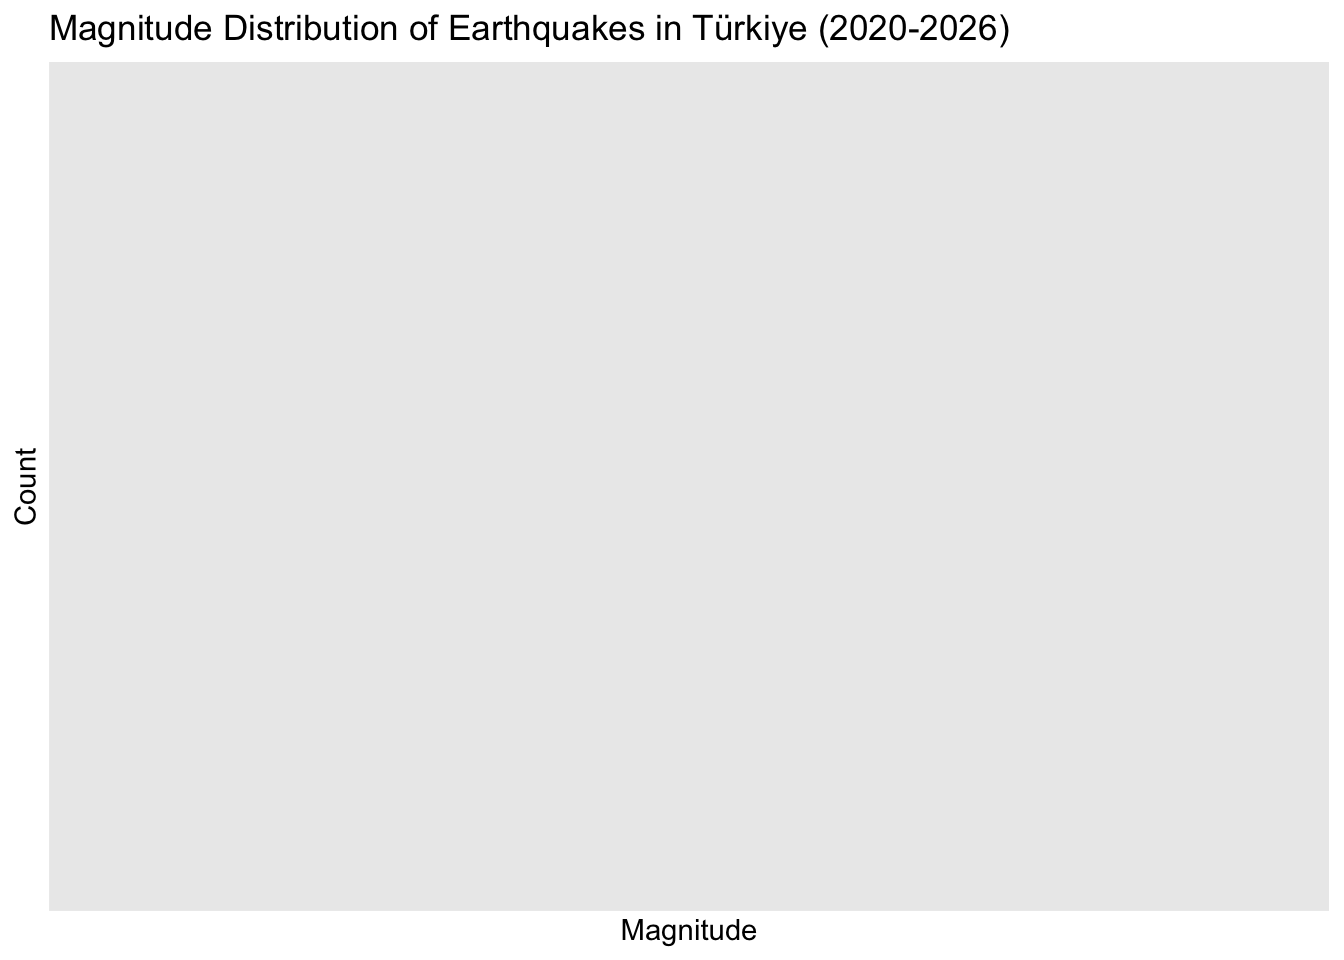
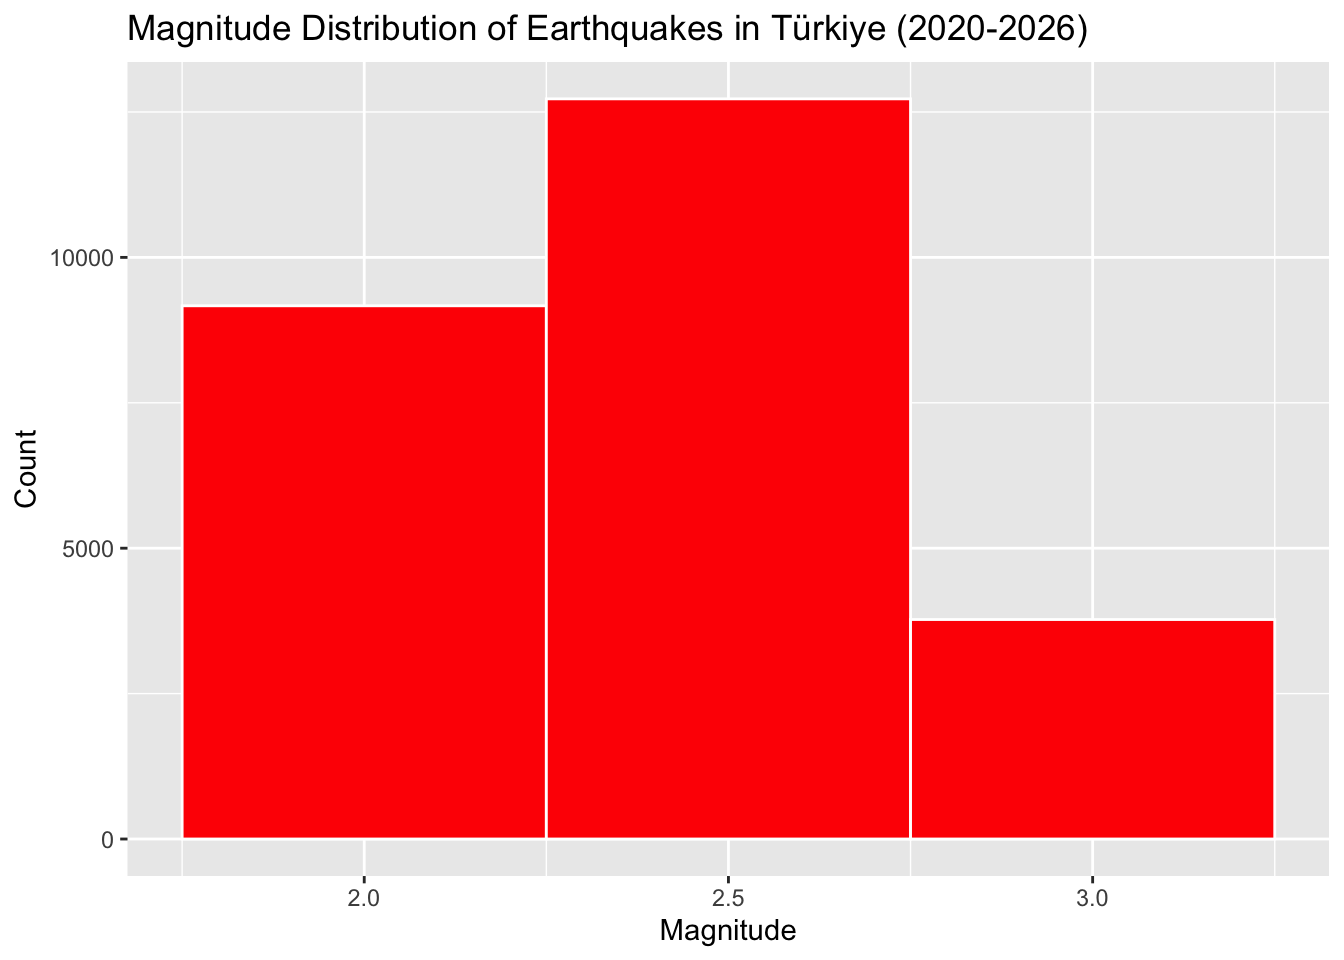
debug

diff --git a/docs/index.html b/docs/index.html
@@ -266,31 +266,48 @@ Attaching package: 'dplyr'</code></pre>
 
     intersect, setdiff, setequal, union</code></pre>
 </div>
-<div class="code-copy-outer-scaffold"><div class="sourceCode cell-code" id="cb5"><pre class="sourceCode r code-with-copy"><code class="sourceCode r"><span id="cb5-1"><a href="#cb5-1" aria-hidden="true" tabindex="-1"></a>deprem_data <span class="ot">&lt;-</span> <span class="fu">read_excel</span>(<span class="st">"~/Desktop/R/data.xlsx"</span>)</span>
-<span id="cb5-2"><a href="#cb5-2" aria-hidden="true" tabindex="-1"></a></span>
-<span id="cb5-3"><a href="#cb5-3" aria-hidden="true" tabindex="-1"></a><span class="co"># Date parse</span></span>
-<span id="cb5-4"><a href="#cb5-4" aria-hidden="true" tabindex="-1"></a>deprem_data<span class="sc">$</span>Date <span class="ot">&lt;-</span> <span class="fu">as.POSIXct</span>(</span>
-<span id="cb5-5"><a href="#cb5-5" aria-hidden="true" tabindex="-1"></a>  deprem_data<span class="sc">$</span>Date,</span>
-<span id="cb5-6"><a href="#cb5-6" aria-hidden="true" tabindex="-1"></a>  <span class="at">format =</span> <span class="st">"%d/%m/%Y %H:%M:%S"</span></span>
-<span id="cb5-7"><a href="#cb5-7" aria-hidden="true" tabindex="-1"></a>)</span>
-<span id="cb5-8"><a href="#cb5-8" aria-hidden="true" tabindex="-1"></a></span>
-<span id="cb5-9"><a href="#cb5-9" aria-hidden="true" tabindex="-1"></a><span class="co"># 🔥 YIL ÇIKAR (EN KRİTİK)</span></span>
-<span id="cb5-10"><a href="#cb5-10" aria-hidden="true" tabindex="-1"></a>deprem_data<span class="sc">$</span>Year <span class="ot">&lt;-</span> <span class="fu">as.numeric</span>(<span class="fu">format</span>(deprem_data<span class="sc">$</span>Date, <span class="st">"%Y"</span>))</span>
-<span id="cb5-11"><a href="#cb5-11" aria-hidden="true" tabindex="-1"></a></span>
-<span id="cb5-12"><a href="#cb5-12" aria-hidden="true" tabindex="-1"></a>deprem_data<span class="sc">$</span>Magnitude <span class="ot">&lt;-</span> <span class="fu">as.numeric</span>(deprem_data<span class="sc">$</span>Magnitude)</span>
-<span id="cb5-13"><a href="#cb5-13" aria-hidden="true" tabindex="-1"></a></span>
-<span id="cb5-14"><a href="#cb5-14" aria-hidden="true" tabindex="-1"></a><span class="co"># 🔥 ARTIK YIL ÜZERİNDEN FİLTRE</span></span>
-<span id="cb5-15"><a href="#cb5-15" aria-hidden="true" tabindex="-1"></a>deprem_data <span class="ot">&lt;-</span> deprem_data <span class="sc">%&gt;%</span></span>
-<span id="cb5-16"><a href="#cb5-16" aria-hidden="true" tabindex="-1"></a>  <span class="fu">filter</span>(</span>
-<span id="cb5-17"><a href="#cb5-17" aria-hidden="true" tabindex="-1"></a>    Year <span class="sc">&gt;=</span> <span class="dv">2020</span>,</span>
-<span id="cb5-18"><a href="#cb5-18" aria-hidden="true" tabindex="-1"></a>    Year <span class="sc">&lt;=</span> <span class="dv">2026</span>,</span>
-<span id="cb5-19"><a href="#cb5-19" aria-hidden="true" tabindex="-1"></a>    <span class="sc">!</span><span class="fu">is.na</span>(Magnitude),</span>
-<span id="cb5-20"><a href="#cb5-20" aria-hidden="true" tabindex="-1"></a>    Magnitude <span class="sc">&gt;</span> <span class="dv">3</span></span>
-<span id="cb5-21"><a href="#cb5-21" aria-hidden="true" tabindex="-1"></a>  )</span>
-<span id="cb5-22"><a href="#cb5-22" aria-hidden="true" tabindex="-1"></a></span>
-<span id="cb5-23"><a href="#cb5-23" aria-hidden="true" tabindex="-1"></a><span class="fu">cat</span>(<span class="st">"Final dataset contains"</span>, <span class="fu">nrow</span>(deprem_data), <span class="st">"observations."</span>)</span></code></pre></div><button title="Copy to Clipboard" class="code-copy-button"><i class="bi"></i></button></div>
+<div class="code-copy-outer-scaffold"><div class="sourceCode cell-code" id="cb5"><pre class="sourceCode r code-with-copy"><code class="sourceCode r"><span id="cb5-1"><a href="#cb5-1" aria-hidden="true" tabindex="-1"></a><span class="co"># 1. Veriyi oku</span></span>
+<span id="cb5-2"><a href="#cb5-2" aria-hidden="true" tabindex="-1"></a>deprem_data <span class="ot">&lt;-</span> <span class="fu">read_excel</span>(<span class="st">"~/Desktop/R/data.xlsx"</span>)</span>
+<span id="cb5-3"><a href="#cb5-3" aria-hidden="true" tabindex="-1"></a></span>
+<span id="cb5-4"><a href="#cb5-4" aria-hidden="true" tabindex="-1"></a><span class="co"># 2. Date düzelt (senin formata göre)</span></span>
+<span id="cb5-5"><a href="#cb5-5" aria-hidden="true" tabindex="-1"></a>deprem_data<span class="sc">$</span>Date <span class="ot">&lt;-</span> <span class="fu">as.POSIXct</span>(</span>
+<span id="cb5-6"><a href="#cb5-6" aria-hidden="true" tabindex="-1"></a>  deprem_data<span class="sc">$</span>Date,</span>
+<span id="cb5-7"><a href="#cb5-7" aria-hidden="true" tabindex="-1"></a>  <span class="at">format =</span> <span class="st">"%d/%m/%Y %H:%M:%S"</span></span>
+<span id="cb5-8"><a href="#cb5-8" aria-hidden="true" tabindex="-1"></a>)</span>
+<span id="cb5-9"><a href="#cb5-9" aria-hidden="true" tabindex="-1"></a></span>
+<span id="cb5-10"><a href="#cb5-10" aria-hidden="true" tabindex="-1"></a><span class="co"># 3. Year çıkar</span></span>
+<span id="cb5-11"><a href="#cb5-11" aria-hidden="true" tabindex="-1"></a>deprem_data<span class="sc">$</span>Year <span class="ot">&lt;-</span> <span class="fu">as.numeric</span>(<span class="fu">format</span>(deprem_data<span class="sc">$</span>Date, <span class="st">"%Y"</span>))</span>
+<span id="cb5-12"><a href="#cb5-12" aria-hidden="true" tabindex="-1"></a></span>
+<span id="cb5-13"><a href="#cb5-13" aria-hidden="true" tabindex="-1"></a><span class="co"># 4. Magnitude numeric yap</span></span>
+<span id="cb5-14"><a href="#cb5-14" aria-hidden="true" tabindex="-1"></a>deprem_data<span class="sc">$</span>Magnitude <span class="ot">&lt;-</span> <span class="fu">as.numeric</span>(deprem_data<span class="sc">$</span>Magnitude)</span>
+<span id="cb5-15"><a href="#cb5-15" aria-hidden="true" tabindex="-1"></a></span>
+<span id="cb5-16"><a href="#cb5-16" aria-hidden="true" tabindex="-1"></a><span class="co"># 🔥 5. FİLTRE (EN ÖNEMLİ DÜZELTME)</span></span>
+<span id="cb5-17"><a href="#cb5-17" aria-hidden="true" tabindex="-1"></a>deprem_data <span class="ot">&lt;-</span> deprem_data <span class="sc">%&gt;%</span></span>
+<span id="cb5-18"><a href="#cb5-18" aria-hidden="true" tabindex="-1"></a>  <span class="fu">filter</span>(</span>
+<span id="cb5-19"><a href="#cb5-19" aria-hidden="true" tabindex="-1"></a>    Year <span class="sc">&gt;=</span> <span class="dv">2020</span>,</span>
+<span id="cb5-20"><a href="#cb5-20" aria-hidden="true" tabindex="-1"></a>    Year <span class="sc">&lt;=</span> <span class="dv">2026</span>,</span>
+<span id="cb5-21"><a href="#cb5-21" aria-hidden="true" tabindex="-1"></a>    <span class="sc">!</span><span class="fu">is.na</span>(Magnitude),</span>
+<span id="cb5-22"><a href="#cb5-22" aria-hidden="true" tabindex="-1"></a>    Magnitude <span class="sc">&gt;</span> <span class="dv">2</span>   <span class="co"># 🔥 3 değil!</span></span>
+<span id="cb5-23"><a href="#cb5-23" aria-hidden="true" tabindex="-1"></a>  )</span>
+<span id="cb5-24"><a href="#cb5-24" aria-hidden="true" tabindex="-1"></a></span>
+<span id="cb5-25"><a href="#cb5-25" aria-hidden="true" tabindex="-1"></a><span class="co"># 6. Sonuç</span></span>
+<span id="cb5-26"><a href="#cb5-26" aria-hidden="true" tabindex="-1"></a><span class="fu">cat</span>(<span class="st">"Final dataset contains"</span>, <span class="fu">nrow</span>(deprem_data), <span class="st">"observations.</span><span class="sc">\n</span><span class="st">"</span>)</span></code></pre></div><button title="Copy to Clipboard" class="code-copy-button"><i class="bi"></i></button></div>
 <div class="cell-output cell-output-stdout">
-<pre><code>Final dataset contains 0 observations.</code></pre>
+<pre><code>Final dataset contains 25668 observations.</code></pre>
+</div>
+<div class="code-copy-outer-scaffold"><div class="sourceCode cell-code" id="cb7"><pre class="sourceCode r code-with-copy"><code class="sourceCode r"><span id="cb7-1"><a href="#cb7-1" aria-hidden="true" tabindex="-1"></a><span class="co"># 7. Kontrol</span></span>
+<span id="cb7-2"><a href="#cb7-2" aria-hidden="true" tabindex="-1"></a><span class="fu">head</span>(deprem_data)</span></code></pre></div><button title="Copy to Clipboard" class="code-copy-button"><i class="bi"></i></button></div>
+<div class="cell-output cell-output-stdout">
+<pre><code># A tibble: 6 × 10
+  Date                Longitude Latitude Depth   Rms Type  Magnitude Location   
+  &lt;dttm&gt;                  &lt;dbl&gt;    &lt;dbl&gt; &lt;dbl&gt; &lt;dbl&gt; &lt;chr&gt;     &lt;dbl&gt; &lt;chr&gt;      
+1 2026-03-01 16:50:30      39.3     38.2  7.28  0.33 ML          2.5 Çüngüş (Di…
+2 2026-03-01 15:29:44      36.6     37.2  7     0.56 ML          2.2 Bahçe (Osm…
+3 2026-03-01 09:35:38      31.8     35.1  7     0.94 ML          2.3 Akdeniz - …
+4 2026-03-01 04:32:19      35.4     37.7  7     0.79 ML          2.2 Yahyalı (K…
+5 2026-02-28 23:52:32      36.5     37.9  7     0.5  ML          2.4 Göksun (Ka…
+6 2026-02-28 05:26:43      36.0     36.3 10.5   0.36 ML          2.7 Samandağ (…
+# ℹ 2 more variables: EventID &lt;dbl&gt;, Year &lt;dbl&gt;</code></pre>
 </div>
 </div>
 </section>
